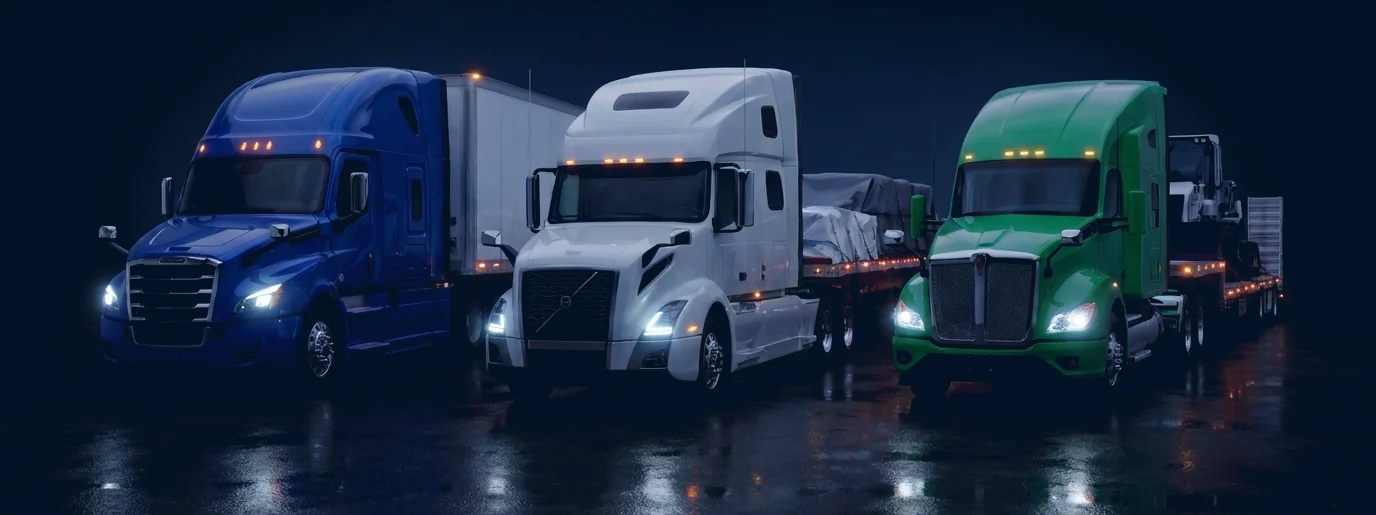
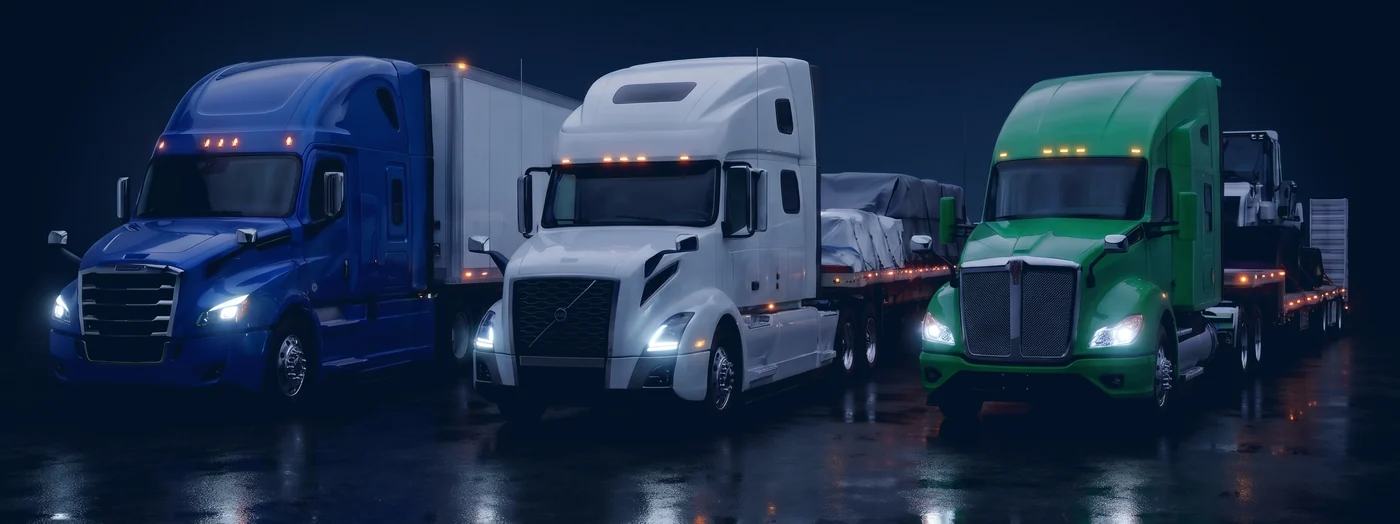
OO hero: night photo from the 2752x1536 source

diff --git a/owner-operators.html b/owner-operators.html
@@ -3298,7 +3298,7 @@
           <p class="hero-trust"><svg width="16" height="16" fill="none" stroke="currentColor" stroke-width="2.2" viewBox="0 0 24 24" aria-hidden="true"><path stroke-linecap="round" stroke-linejoin="round" d="M12 3l7 3v5c0 4.5-3 8.3-7 10-4-1.7-7-5.5-7-10V6l7-3z"/><path stroke-linecap="round" stroke-linejoin="round" d="M9 12l2 2 4-4"/></svg><span data-i18n="hero_trust">Licensed motor carrier<span class="ht-sep"> · </span><span class="ht-ids">USDOT 4454223 · MC-1755680</span></span></p>
         </div>
         <div class="hero-media">
-          <picture><source data-dark media="(prefers-color-scheme: dark)" srcset="assets/trucks-oo-night.webp" width="1376" height="515" />
+          <picture><source data-dark media="(prefers-color-scheme: dark)" srcset="assets/trucks-oo-night.webp" width="1400" height="524" />
           <img class="hero-img-trio" src="assets/trucks-oo.webp" width="1400" height="524" fetchpriority="high"
                alt="Three trucks: a blue Freightliner Cascadia with a dry van, a white Volvo with a flatbed and a green Kenworth with a step deck" /></picture>
         </div>
